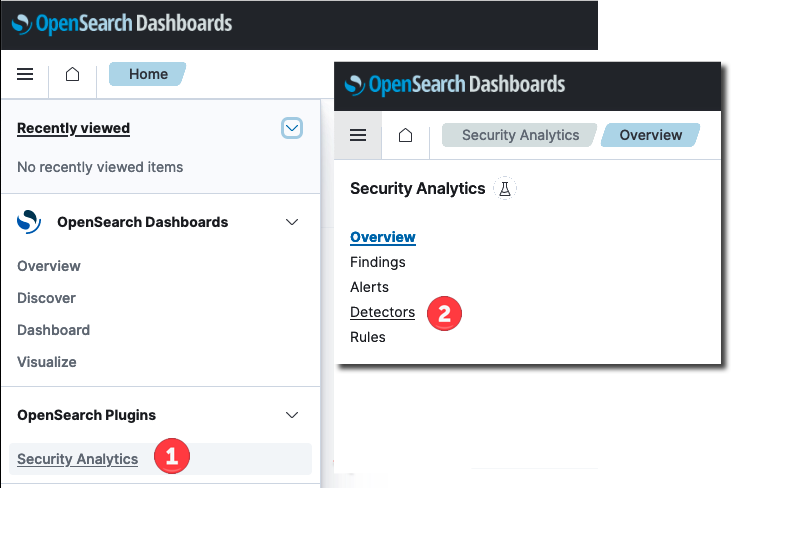
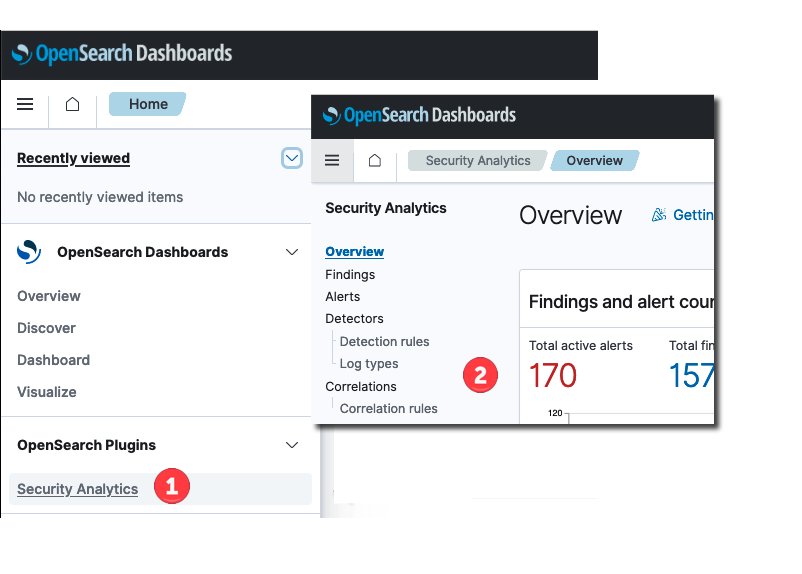
Add documentation that supports custom log types (#4969)
* fix#4741 custom logtype updates

* fix#4741 custom logtype updates

* fix#4741 custom logtype updates

* fix#4741 custom logtype updates

* fix#4741 custom logtype updates

* fix#4741 custom logtype updates

* fix#4741 custom logtype updates

* fix#4741 custom logtype updates

* fix#4741 custom logtype updates

* fix#4741 custom logtype updates

* fix#4741 custom logtype updates

* fix#4741 custom logtype updates

* fix#4741 custom logtype updates

* fix#4741 custom logtype updates

* fix#4741 custom logtype updates

* fix#4741 custom logtype updates

* fix#4741 custom logtype updates

* fix#4741 custom logtype updates

* fix#4741 custom logtype updates

* fix#4741 custom logtype updates

* fix#4741 custom logtype updates

* fix#4741 custom logtype updates

* fix#4741 custom logtype updates

* fix#4741 custom logtype updates

* fix#4741 custom logtype updates

* fix#4741 custom logtype updates

* fix#4741 custom logtype updates

* fix#4741 custom logtype updates

* fix#4741 custom logtype updates

* fix#4741 custom logtype updates

---------

Changed region(s): [[0.0, 0.0, 0.9352, 0.75], [0.0, 0.75, 0.4052, 0.9062], [0.3429, 0.75, 0.3741, 0.7812]]

diff --git a/_security-analytics/sec-analytics-config/detectors-config.md b/_security-analytics/sec-analytics-config/detectors-config.md
@@ -21,16 +21,16 @@ You can define a new detector by naming the detector, selecting a data source an
     When multiple data sources are selected, the logs must be of the same type. We recommend creating separate detectors for different log types.
     {: .note }
     
-1. In the **Log types and rules** section, select the log type for the data source. The system automatically populates the Sigma security rules associated with the log type.
+1. In the **Log types and rules** section, select the log type for the data source from the dropdown list. The system automatically populates the detection rules associated with the log type.
    
-   For information about creating your own detection rules, see [Creating detection rules]({{site.url}}{{site.baseurl}}/security-analytics/usage/rules/#creating-detection-rules).
+   For information about creating your own detection rules, see [Creating detection rules]({{site.url}}{{site.baseurl}}/security-analytics/usage/rules/#creating-detection-rules). To create your own log types, see [Creating custom log types]({{site.url}}{{site.baseurl}}/security-analytics/sec-analytics-config/custom-log-type/).
    {: .note }
    
-   The following image shows the number of associated rules populated in the **Detection rules** section.
+   The example in the following image shows the number of rules associated with **network** after this log type is selected.
 
-    <img src="{{site.url}}{{site.baseurl}}/images/Security/detector_rules.png" alt="Selecting threat detector type to auto-populate rules" width="85%">
+    <img src="{{site.url}}{{site.baseurl}}/images/Security/detector-rules.png" alt="Selecting threat detector log type to auto-populate rules" width="85%">
     
-    When you select **Network events**, **CloudTrail logs**, or **S3 access logs** as the log type, the system automatically creates a detector dashboard. The dashboard offers visualizations for the detector and can provide security-related insight into log source data. For more information about visualizations, see [Building data visualizations]({{site.url}}{{site.baseurl}}/dashboards/visualize/viz-index/).
+    When you select **network**, **cloudtrail**, or **s3** as the log type, the system automatically creates a detector dashboard. The dashboard offers visualizations for the detector and can provide security-related insight into log source data. For more information about visualizations, see [Building data visualizations]({{site.url}}{{site.baseurl}}/dashboards/visualize/viz-index/).
     
     You can skip the next step for applying select rules if you are satisfied with those automatically populated by the system. Otherwise, go to the next step to select rules individually.
     {: .note }
@@ -69,7 +69,7 @@ Although the ECS rule field names are largely self-explanatory, you can find pre
 
 [Amazon Security Lake](https://docs.aws.amazon.com/security-lake/latest/userguide/what-is-security-lake.html) converts security log and event data to the [Open Cybersecurity Schema Framework](https://docs.aws.amazon.com/security-lake/latest/userguide/open-cybersecurity-schema-framework.html) (OCSF) to normalize combined data and facilitate its management. OpenSearch supports ingestion of log data from Security Lake in the OCSF format, and Security Analytics can automatically map fields from OCSF to ECS (the default field-mapping schema).
 
-The Security Lake log types that can be used as log sources for detector creation include CloudTrail, Route 53, and VPC Flow. Given that Route 53 is a log that captures DNS activity, its log type should be specified as **DNS logs** when [defining a detector](#step-1-define-a-detector). Furthermore, because logs such as CloudTrail can conceivably be captured in both raw format and OCSF, it's good practice to name indexes in a way that keeps these logs separate and easily identifiable. This becomes helpful when specifying an index name in any of the APIs associated with Security Analytics.
+The Security Lake log types that can be used as log sources for detector creation include CloudTrail, Route 53, and VPC Flow. Given that Route 53 is a log that captures DNS activity, its log type should be specified as **dns** when [defining a detector](#step-1-define-a-detector). Furthermore, because logs such as CloudTrail logs can conceivably be captured in both raw format and OCSF, it's good practice to name indexes in a way that keeps these logs separate and easily identifiable. This becomes helpful when specifying an index name in any of the APIs associated with Security Analytics.
 
 To reveal fields for a log index in either raw format or OCSF, use the [Get Mappings View]({{site.url}}{{site.baseurl}}/security-analytics/api-tools/mappings-api/#get-mappings-view) API and specify the index in the `index_name` field of the request.
 {: .tip }
@@ -147,5 +147,7 @@ To set up an alert for a detector, continue with the following steps:
 ---
 ## What's next
 
-If you are ready to view findings for the new detector, see the [Working with findings]({{site.url}}{{site.baseurl}}/security-analytics/usage/findings/) section. If you would like to import rules or set up custom rules before working with findings, see the [Working with rules]({{site.url}}{{site.baseurl}}/security-analytics/usage/rules/) section. 
+If you are ready to view findings generated by the new detector, see the [Working with findings]({{site.url}}{{site.baseurl}}/security-analytics/usage/findings/) section. If you would like to import rules or set up custom rules before working with findings, see the [Working with detection rules]({{site.url}}{{site.baseurl}}/security-analytics/usage/rules/) section.
+
+To configure Security Analytics to identify correlations between events happening in different logs throughout your system, see [Creating correlation rules]({{site.url}}{{site.baseurl}}/security-analytics/sec-analytics-config/correlation-config/).
 

diff --git a/_security-analytics/api-tools/log-type-api.md b/_security-analytics/api-tools/log-type-api.md
@@ -1,0 +1,237 @@
+---
+layout: default
+title: Log type APIs
+parent: API tools
+nav_order: 56
+---
+
+# Log type APIs
+
+The log type APIs allow you to create a custom log type, search custom log types, update custom log types, and delete custom log types.
+
+
+## Create log type
+
+Creating a new custom log type involves entering a name and a description and specifying the source as `Custom`.
+
+
+### Example request
+
+```json
+POST /_plugins/_security_analytics/logtype
+{
+  "description": "custom-log-type-desc",
+  "name": "custom-log-type4",
+  "source": "Custom"
+}
+```
+{% include copy-curl.html %}
+
+
+### Example response
+
+```json
+{
+    "_id": "m98uk4kBlb9cbROIpEj2",
+    "_version": 1,
+    "logType": {
+        "name": "custom-log-type4",
+        "description": "custom-log-type-desc",
+        "source": "Custom",
+        "tags": {
+            "correlation_id": 27
+        }
+    }
+}
+```
+
+
+## Search custom log types
+
+This API allows you to search log types in the system.
+
+
+### Example request
+
+```json
+POST /_plugins/_security_analytics/logtype/_search
+{
+    "query": {
+        "match_all": {}
+    }
+}
+```
+{% include copy-curl.html %}
+
+
+### Example response
+
+```json
+{
+    "took": 3,
+    "timed_out": false,
+    "_shards": {
+        "total": 1,
+        "successful": 1,
+        "skipped": 0,
+        "failed": 0
+    },
+    "hits": {
+        "total": {
+            "value": 26,
+            "relation": "eq"
+        },
+        "max_score": 2.0,
+        "hits": [
+            {
+                "_index": ".opensearch-sap-log-types-config",
+                "_id": "s3",
+                "_score": 2.0,
+                "_source": {
+                    "name": "s3",
+                    "description": "Windows logs",
+                    "source": "Sigma",
+                    "tags": {
+                        "correlation_id": 21
+                    }
+                }
+            },
+            {
+                "_index": ".opensearch-sap-log-types-config",
+                "_id": "others_compliance",
+                "_score": 2.0,
+                "_source": {
+                    "name": "others_compliance",
+                    "description": "Compliance logs",
+                    "source": "Sigma",
+                    "tags": {
+                        "correlation_id": 4
+                    }
+                }
+            },
+            {
+                "_index": ".opensearch-sap-log-types-config",
+                "_id": "github",
+                "_score": 2.0,
+                "_source": {
+                    "name": "github",
+                    "description": "Sys logs",
+                    "source": "Sigma",
+                    "tags": {
+                        "correlation_id": 16
+                    }
+                }
+            },
+            {
+                "_index": ".opensearch-sap-log-types-config",
+                "_id": "others_application",
+                "_score": 2.0,
+                "_source": {
+                    "name": "others_application",
+                    "description": "Application logs",
+                    "source": "Sigma",
+                    "tags": {
+                        "correlation_id": 0
+                    }
+                }
+            },
+            {
+                "_index": ".opensearch-sap-log-types-config",
+                "_id": "dns",
+                "_score": 2.0,
+                "_source": {
+                    "name": "dns",
+                    "description": "Compliance logs",
+                    "source": "Sigma",
+                    "tags": {
+                        "correlation_id": 15
+                    }
+                }
+            },
+            {
+                "_index": ".opensearch-sap-log-types-config",
+                "_id": "m98uk4kBlb9cbROIpEj2",
+                "_score": 2.0,
+                "_source": {
+                    "name": "custom-log-type-updated4",
+                    "description": "custom-log-type-updated-desc",
+                    "source": "Custom",
+                    "tags": null
+                }
+            }
+        ]
+    }
+}
+```
+
+
+## Update custom log type
+
+This API allows you to update existing custom log types. Use the log type's ID in the route to specify the log type, as shown in the following example:
+
+```json
+PUT /_plugins/_security_analytics/logtype/<log_type_id>
+```
+
+
+### Example request
+
+```json
+PUT /_plugins/_security_analytics/logtype/m98uk4kBlb9cbROIpEj2
+{
+  "name": "custom-log-type4",
+  "description": "custom-log-type-updated-desc",
+  "source": "Custom"
+}
+```
+{% include copy-curl.html %}
+
+
+### Example response
+
+```json
+{
+    "_id": "m98uk4kBlb9cbROIpEj2",
+    "_version": 1,
+    "logType": {
+        "name": "custom-log-type4",
+        "description": "custom-log-type-updated-desc",
+        "source": "Custom",
+        "tags": {
+            "correlation_id": 27
+        }
+    }
+}
+```
+
+
+## Delete custom log type
+
+This API is used to delete a custom log type. Specify the log type's ID in the route to run the operation:
+
+```json
+DELETE /_plugins/_security_analytics/logtype/<log_type_id>
+```
+
+
+### Example request
+
+```json
+DELETE /_plugins/_security_analytics/logtype/m98uk4kBlb9cbROIpEj2
+```
+{% include copy-curl.html %}
+
+
+### Example response
+
+```json
+200 OK
+{
+    "_id": "m98uk4kBlb9cbROIpEj2",
+    "_version": 1
+}
+```
+
+Only custom log types can be deleted. Trying to delete a standard OpenSearch-defined log type results in an error.
+{: .note }
+

diff --git a/_security-analytics/sec-analytics-config/custom-log-type.md b/_security-analytics/sec-analytics-config/custom-log-type.md
@@ -1,0 +1,43 @@
+---
+layout: default
+title: Creating custom log types
+parent: Setting up Security Analytics
+nav_order: 18
+---
+
+
+# Creating custom log types
+
+Log types represent the different sources of data used for threat detection in Security Analytics. In addition to the standard log types supported by Security Analytics, you can create custom log types for your threat detectors. Follow the steps provided here to create a custom log type.
+
+
+## The Log types page
+
+To navigate to the **Log types** page, select **Log types** under **Detectors** in the navigation menu. The following image shows the **Log types** landing page.
+
+<img src="{{site.url}}{{site.baseurl}}/images/Security/c-log-type.png" alt="The Log types landing page." width="85%">
+
+The table that lists the log types provides the name of the log type, its description, and identifies whether it's a standard OpenSearch-defined log type or a custom log type. The following list describes the main features found on the **Log types** page and the actions you can take:
+
+* Select the log type **Name** to open the log type's details page. The **Details** tab is shown by default. This tab includes the log type's ID. You can also select the **Detection rules** tab to show all detection rules associated with the log type.
+* In the **Actions** column, you can select the trash can icon ({::nomarkdown}<img src="{{site.url}}{{site.baseurl}}/images/alerting/trash-can-icon.png" class="inline-icon" alt="trash can icon"/>{:/}) to delete a custom log type (you cannot delete a standard OpenSearch-defined log type). Follow the prompts to confirm and safely remove the custom log type.
+* Select **Create log type** in the upper-right corner of the screen to begin creating a custom log type. The **Create log type** page opens. Continue with the steps in the section that follows to create a custom log type.
+
+
+## Creating a custom log type
+
+After selecting **Create log type** on the **Log types** page, the **Create log type** page opens and provides the necessary fields for creating a new log type:
+
+1. Enter a name for the log type.
+   
+   The log type name supports characters a--z (lowercase), 0--9, hyphens, and underscores.
+   {: .note }
+   
+1. Enter a description for the log type.
+1. Select **Create log type** in the lower-right corner of the screen. The screen returns to the **Log types** page, and the new log type appears in the list of all log types. Note that the source for the new log type indicates **Custom**.
+
+
+## Log type API
+
+To perform operations for custom log types using the REST API, see [Log type APIs]({{site.url}}{{site.baseurl}}/security-analytics/api-tools/log-type-api/).
+

diff --git a/_security-analytics/usage/overview.md b/_security-analytics/usage/overview.md
@@ -9,8 +9,8 @@ nav_order: 25
 
 When you select **Security Analytics** from the top menu, the Overview page is displayed. The Overview page consists of five sections:
 * Findings and alert count
-* Top recent alerts
-* Top recent findings
+* Recent alerts
+* Recent findings
 * Most frequent detection rules
 * Detectors
 
@@ -35,20 +35,26 @@ You can also select the **Getting started** link to expand the Get started with 
 
 The Findings and alert count section provides a graph showing data on the latest findings. Use the **Group by** dropdown list to select either **All findings** or **Log type**.
 
+<img src="{{site.url}}{{site.baseurl}}/images/Security/count.png" alt="A graph showing counts for findings and alerts." width="75%">
+
 ---
 ## Recent alerts
 
 The Recent alerts table displays recent alerts by time, trigger name, and alert severity. Select **View alerts** to go to the Alerts page.
+
+<img src="{{site.url}}{{site.baseurl}}/images/Security/recent-alerts.png" alt="A table showing the most recent alerts." width="50%">
 
 ---
 ## Recent findings
 
 The Recent findings table displays recent findings by time, rule name, rule severity, and detector. Select **View all findings** to go to the Findings page.
 
+<img src="{{site.url}}{{site.baseurl}}/images/Security/recent-findings.png" alt="A table showing the most recent findings." width="50%">
+
 ---
 ## Most frequent detection rules
 
-This section provides a graphical representation of detection rules that trigger findings most often and how they compare to others as a percentage of the whole. The rule names represented by the graph are listed to the right.
+This section provides a graphical representation of detection rules that trigger findings most often and how they compare to others as a percentage of the whole. The rule names represented by the graph are listed to the right. You can hover over each color on the graph to see details about the detection rule it represents.
 
 <img src="{{site.url}}{{site.baseurl}}/images/Security/rule_graph.png" alt="The detection rule graph on the Overview page" width="50%">
 
@@ -56,4 +62,6 @@ This section provides a graphical representation of detection rules that trigger
 ## Detectors
 
 The Detectors section displays a list of available detectors by detector name, status (active/inactive), and log type. Select **View all detectors** to go to the Detectors page. Select **Create detector** to go directly to the Define detector page.
+
+<img src="{{site.url}}{{site.baseurl}}/images/Security/detector-overview.png" alt="A table showing available detectors." width="50%">
 

diff --git a/_security-analytics/sec-analytics-config/index.md b/_security-analytics/sec-analytics-config/index.md
@@ -12,9 +12,10 @@ redirect_from:
 
 Before Security Analytics can begin generating findings and sending alerts, administrators must create detectors and make log data available to the system. Once detectors are able to generate findings, you can fine-tune your alerts to focus on specific areas of interest. The following steps outline the basic workflow for setting up components in Security Analytics.
 
-1. Create security detectors and alerts, and ingest log data. See [Creating detectors]({{site.url}}{{site.baseurl}}/security-analytics/sec-analytics-config/detectors-config/) for details.
+1. Create threat detectors and alerts, and ingest log data. See [Creating detectors]({{site.url}}{{site.baseurl}}/security-analytics/sec-analytics-config/detectors-config/) for more information.
+1. Consider [creating correlation rules]({{site.url}}{{site.baseurl}}/security-analytics/sec-analytics-config/correlation-config/) to identify connections between events and possible threats occurring in different logs throughout your system.
 1. Inspect findings generated from detector output and create any additional alerts.
-1. If desired, create custom rules by duplicating and then modifying pre-packaged rules. See [Customizing rules]({{site.url}}{{site.baseurl}}/security-analytics/usage/rules/#customizing-rules) for details.
+1. If desired, create custom rules to better focus detectors on high-priority concerns in your system. See [Creating detection rules]({{site.url}}{{site.baseurl}}/security-analytics/usage/rules/#creating-detection-rules) for more information.
 
 ## Navigate to Security Analytics
 

diff --git a/_security-analytics/index.md b/_security-analytics/index.md
@@ -33,7 +33,7 @@ For information about configuring detectors, see [Creating detectors]({{site.url
 
 ### Log types
 
-Log types provide the data used to evaluate events occurring in a system. OpenSearch supports several types of logs and provides out-of-the-box mappings for the most common log sources. Currently supported log sources include:
+Log types provide the data used to evaluate events occurring in a system. OpenSearch supports several types of logs and provides out-of-the-box mappings for the most common log sources. Currently supported log types include the following:
 * Network events
 * DNS logs
 * Apache access logs

diff --git a/_security-analytics/api-tools/index.md b/_security-analytics/api-tools/index.md
@@ -19,4 +19,5 @@ The APIs for Security Analytics are separated into the following categories:
 * [Mappings APIs]({{site.url}}{{site.baseurl}}/security-analytics/api-tools/mappings-api/)
 * [Alerts and findings APIs]({{site.url}}{{site.baseurl}}/security-analytics/api-tools/alert-finding-api/)
 * [Correlation engine APIs]({{site.url}}{{site.baseurl}}/security-analytics/api-tools/correlation-eng/)
+* [Log type APIs]({{site.url}}{{site.baseurl}}/security-analytics/api-tools/log-type-api/)
 
